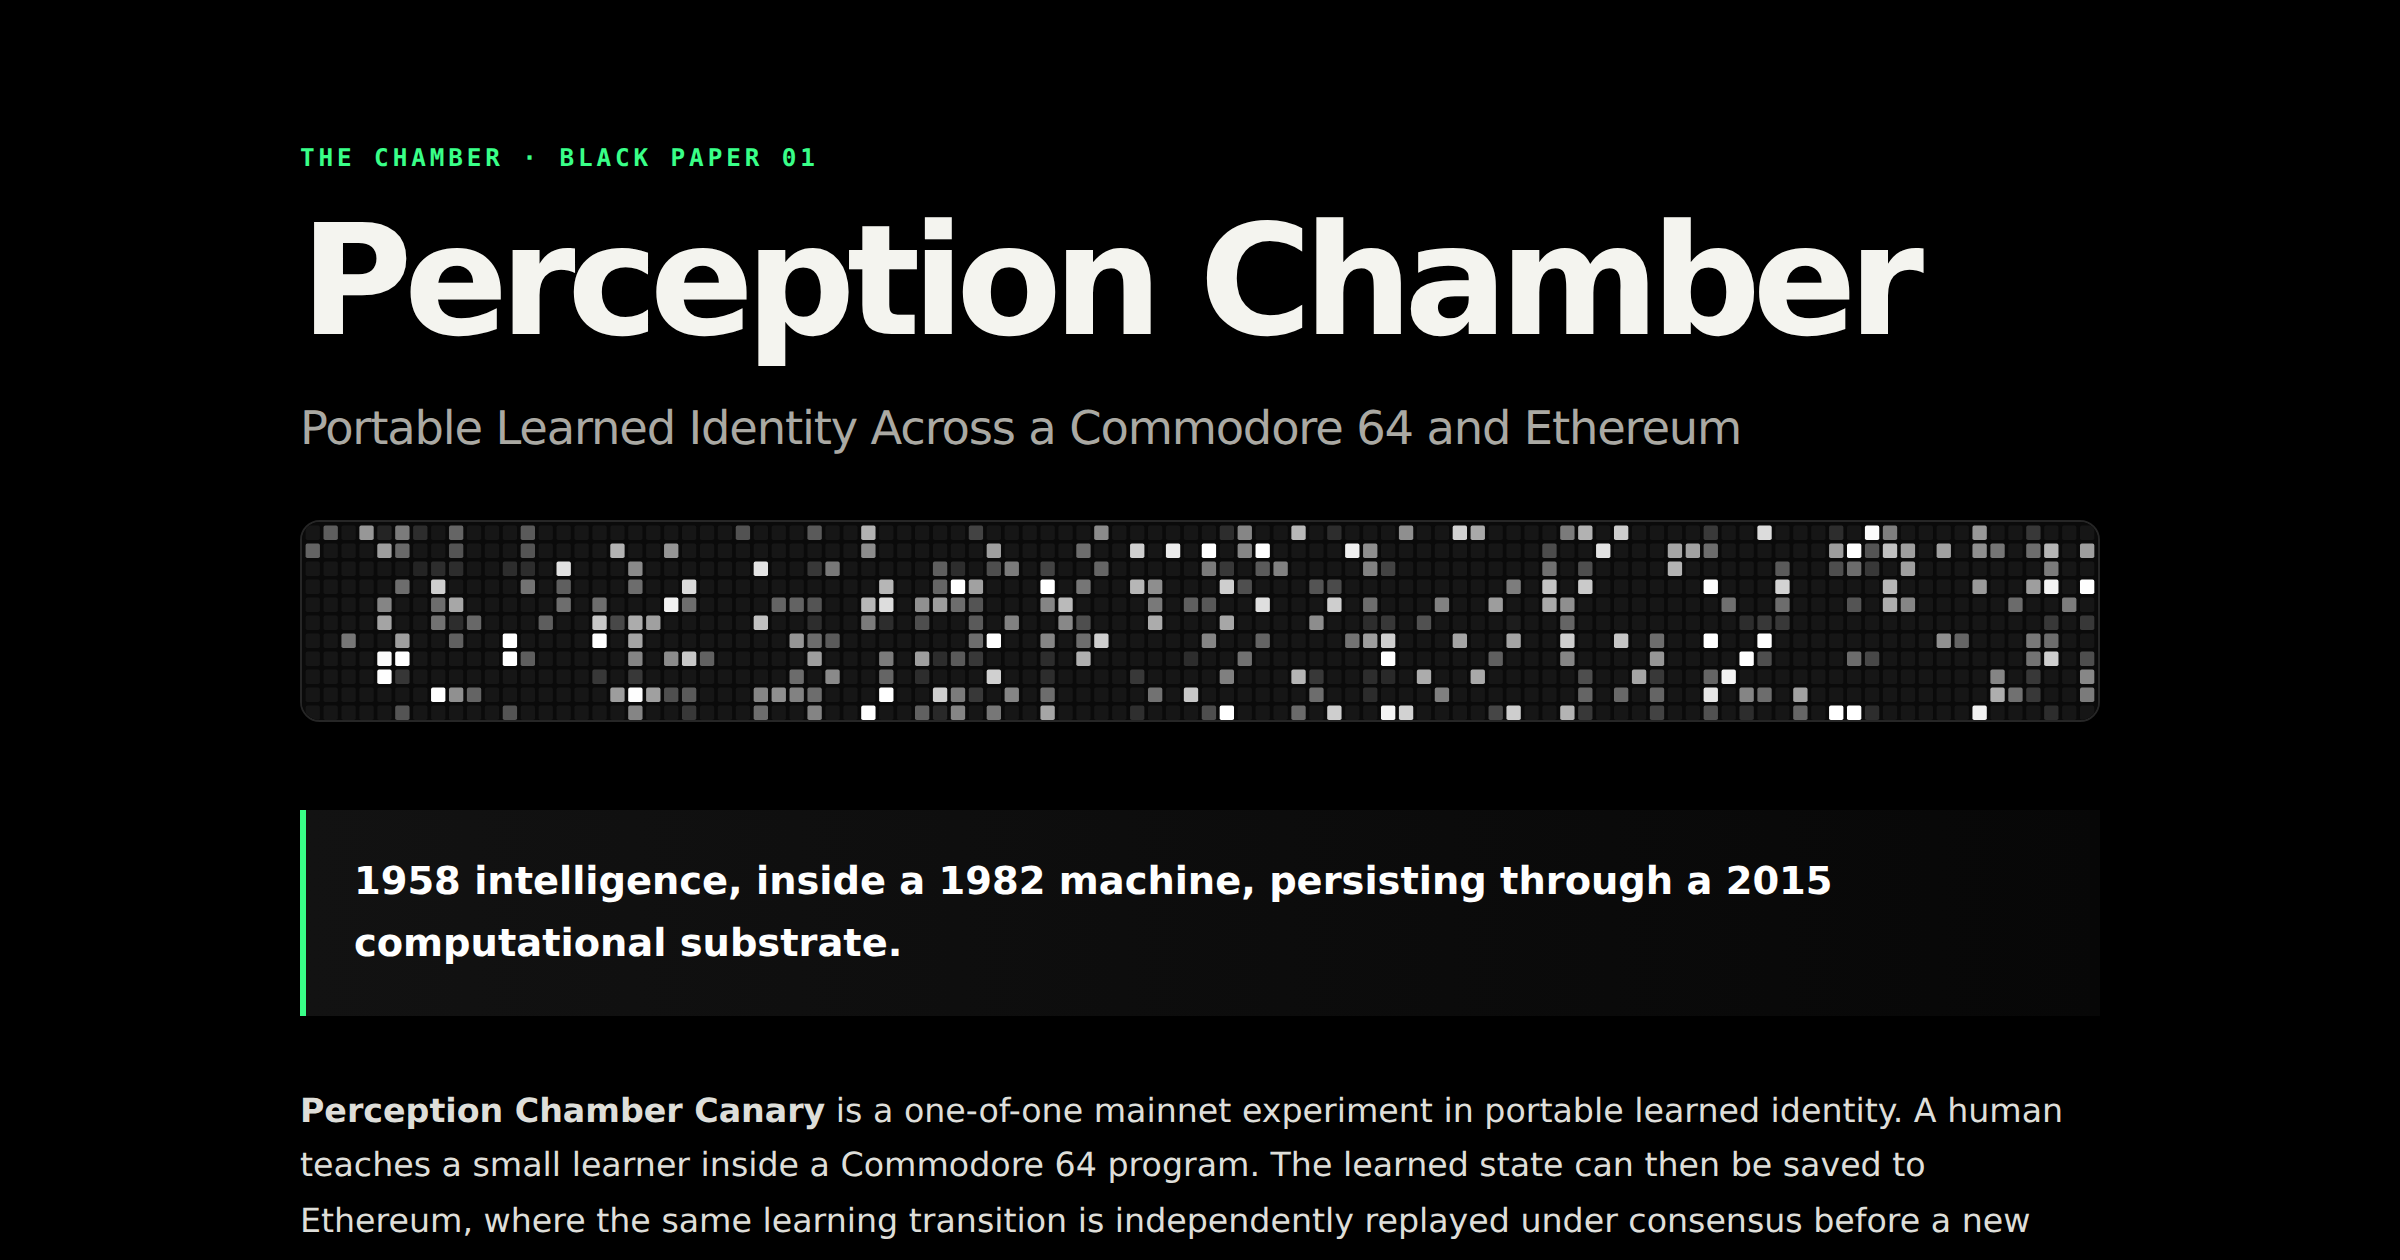
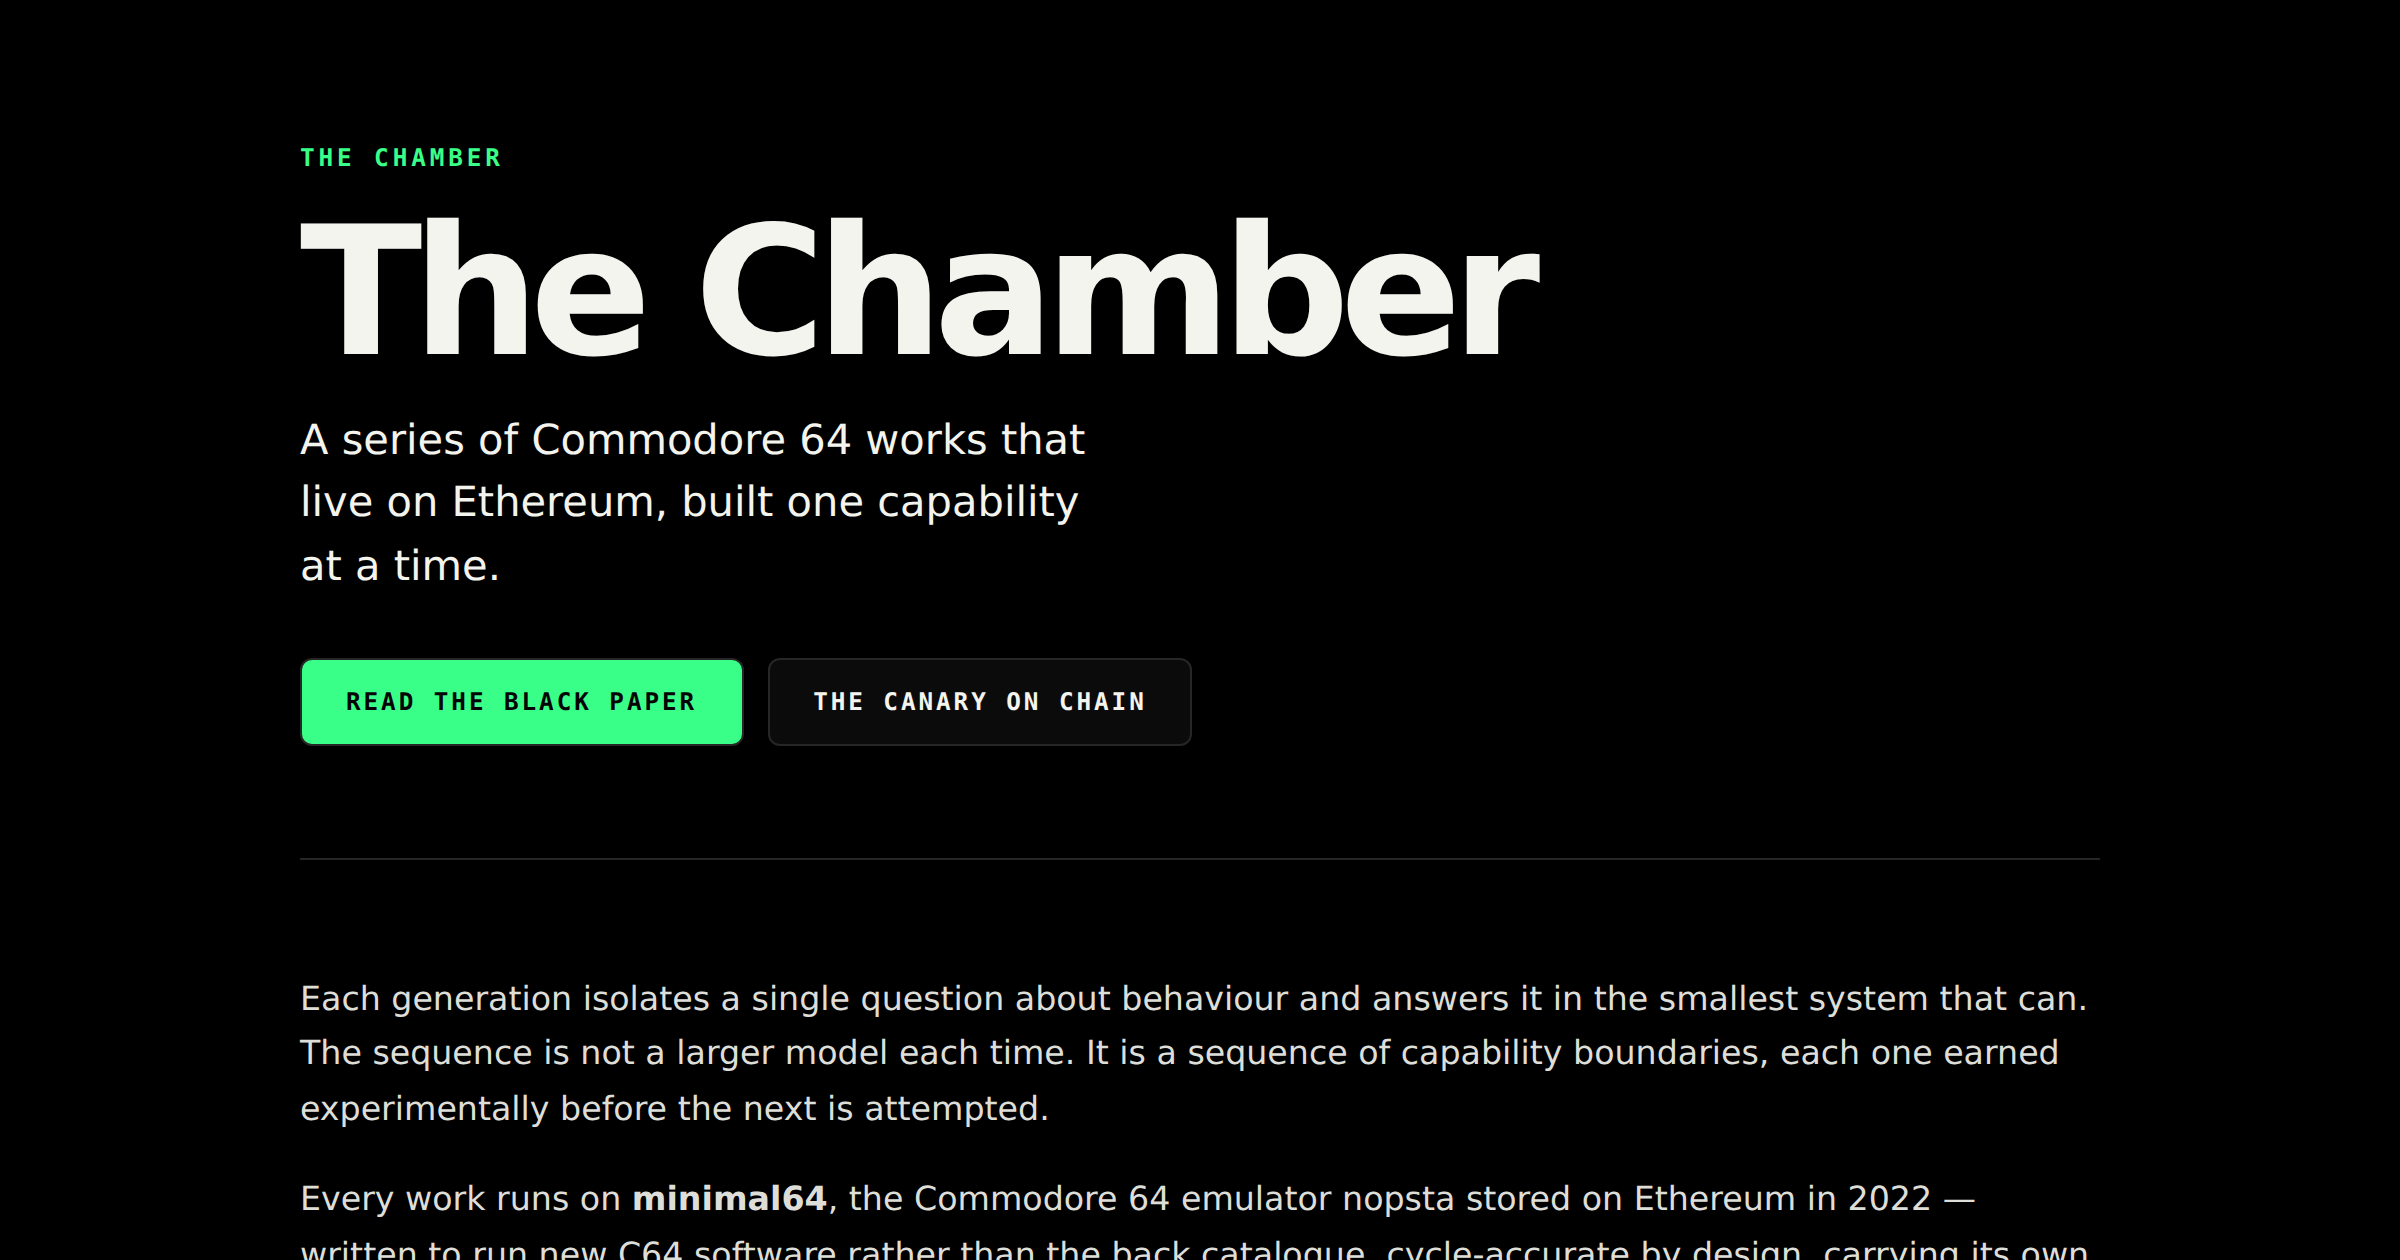
A share card for each page, both current
The card was rendered before the subtitle came off the paper, so it was
still advertising wording that no longer exists on the page.

Re-rendering it exposed a second fault: one card was serving both pages,
so sharing the site previewed as "Perception Chamber" while the page it
linked to said "The Chamber". There are now two, each cut from its own
hero: card.png for the site, black-paper/card.png for the paper, with each
page's Open Graph and Twitter tags pointing at its own.

Claude-Session: https://claude.ai/code/session_01XsgoaBuxuWdWZZazCNjXVa

diff --git a/black-paper/index.html b/black-paper/index.html
@@ -12,7 +12,7 @@
 <meta property="og:url" content="https://demedpit.github.io/the-chamber/black-paper/">
 <meta property="og:title" content="Perception Chamber — Black Paper 01">
 <meta property="og:description" content="A human teaches a perceptron inside a Commodore 64 program; Ethereum replays the same lessons and accepts the new mind only if the bytes agree.">
-<meta property="og:image" content="https://demedpit.github.io/the-chamber/card.png">
+<meta property="og:image" content="https://demedpit.github.io/the-chamber/black-paper/card.png">
 <meta property="og:image:width" content="1200">
 <meta property="og:image:height" content="630">
 <meta property="og:image:alt" content="Perception Chamber — Black Paper 01">
@@ -20,7 +20,7 @@
 <meta name="twitter:card" content="summary_large_image">
 <meta name="twitter:title" content="Perception Chamber — Black Paper 01">
 <meta name="twitter:description" content="A human teaches a perceptron inside a Commodore 64 program; Ethereum replays the same lessons and accepts the new mind only if the bytes agree.">
-<meta name="twitter:image" content="https://demedpit.github.io/the-chamber/card.png">
+<meta name="twitter:image" content="https://demedpit.github.io/the-chamber/black-paper/card.png">
 
 <meta name="theme-color" content="#39ff88">
 <style>

diff --git a/black-paper/build.py b/black-paper/build.py
@@ -76,7 +76,7 @@ def main():
 <meta property="og:url" content="{SITE}/black-paper/">
 <meta property="og:title" content="{_html.escape(TITLE)}">
 <meta property="og:description" content="{_html.escape(DESC)}">
-<meta property="og:image" content="{SITE}/card.png">
+<meta property="og:image" content="{SITE}/black-paper/card.png">
 <meta property="og:image:width" content="1200">
 <meta property="og:image:height" content="630">
 <meta property="og:image:alt" content="Perception Chamber — Black Paper 01">
@@ -84,7 +84,7 @@ def main():
 <meta name="twitter:card" content="summary_large_image">
 <meta name="twitter:title" content="{_html.escape(TITLE)}">
 <meta name="twitter:description" content="{_html.escape(DESC)}">
-<meta name="twitter:image" content="{SITE}/card.png">
+<meta name="twitter:image" content="{SITE}/black-paper/card.png">
 
 <meta name="theme-color" content="#39ff88">
 <style>
